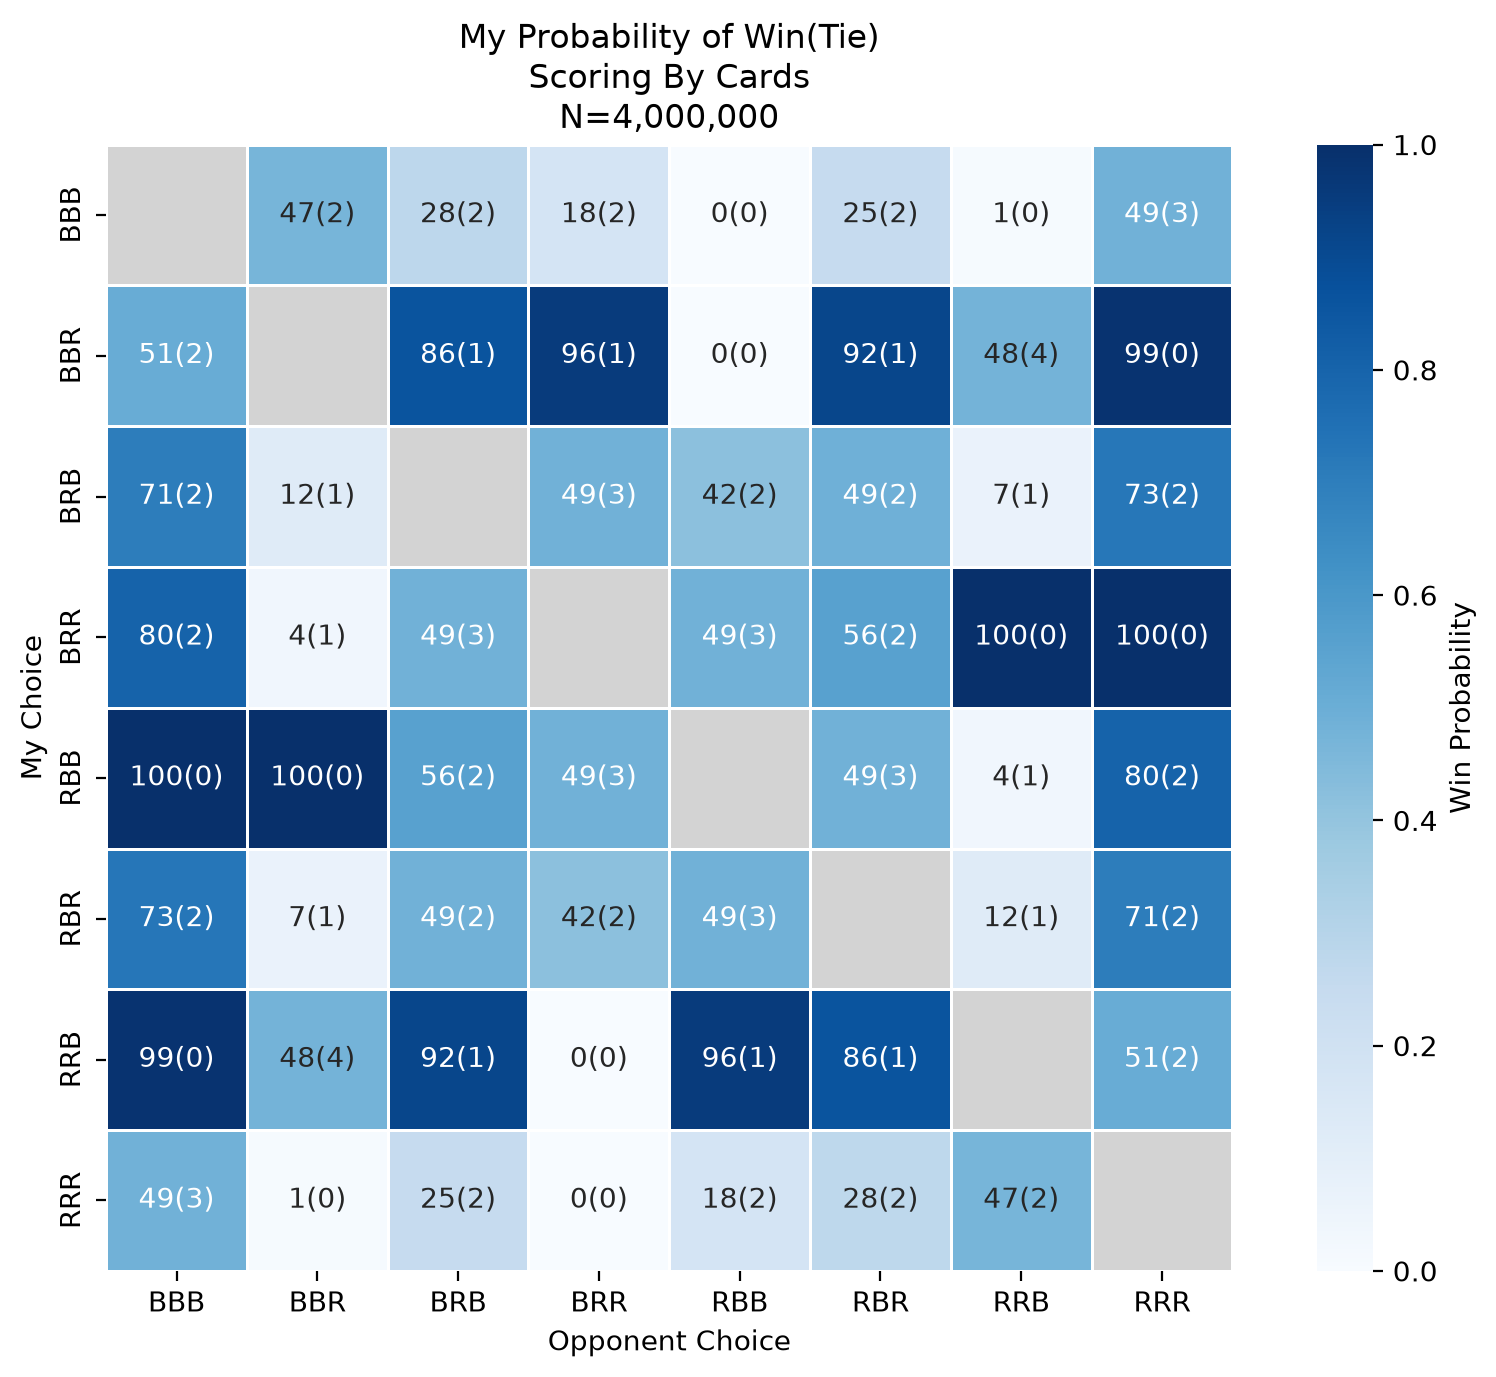
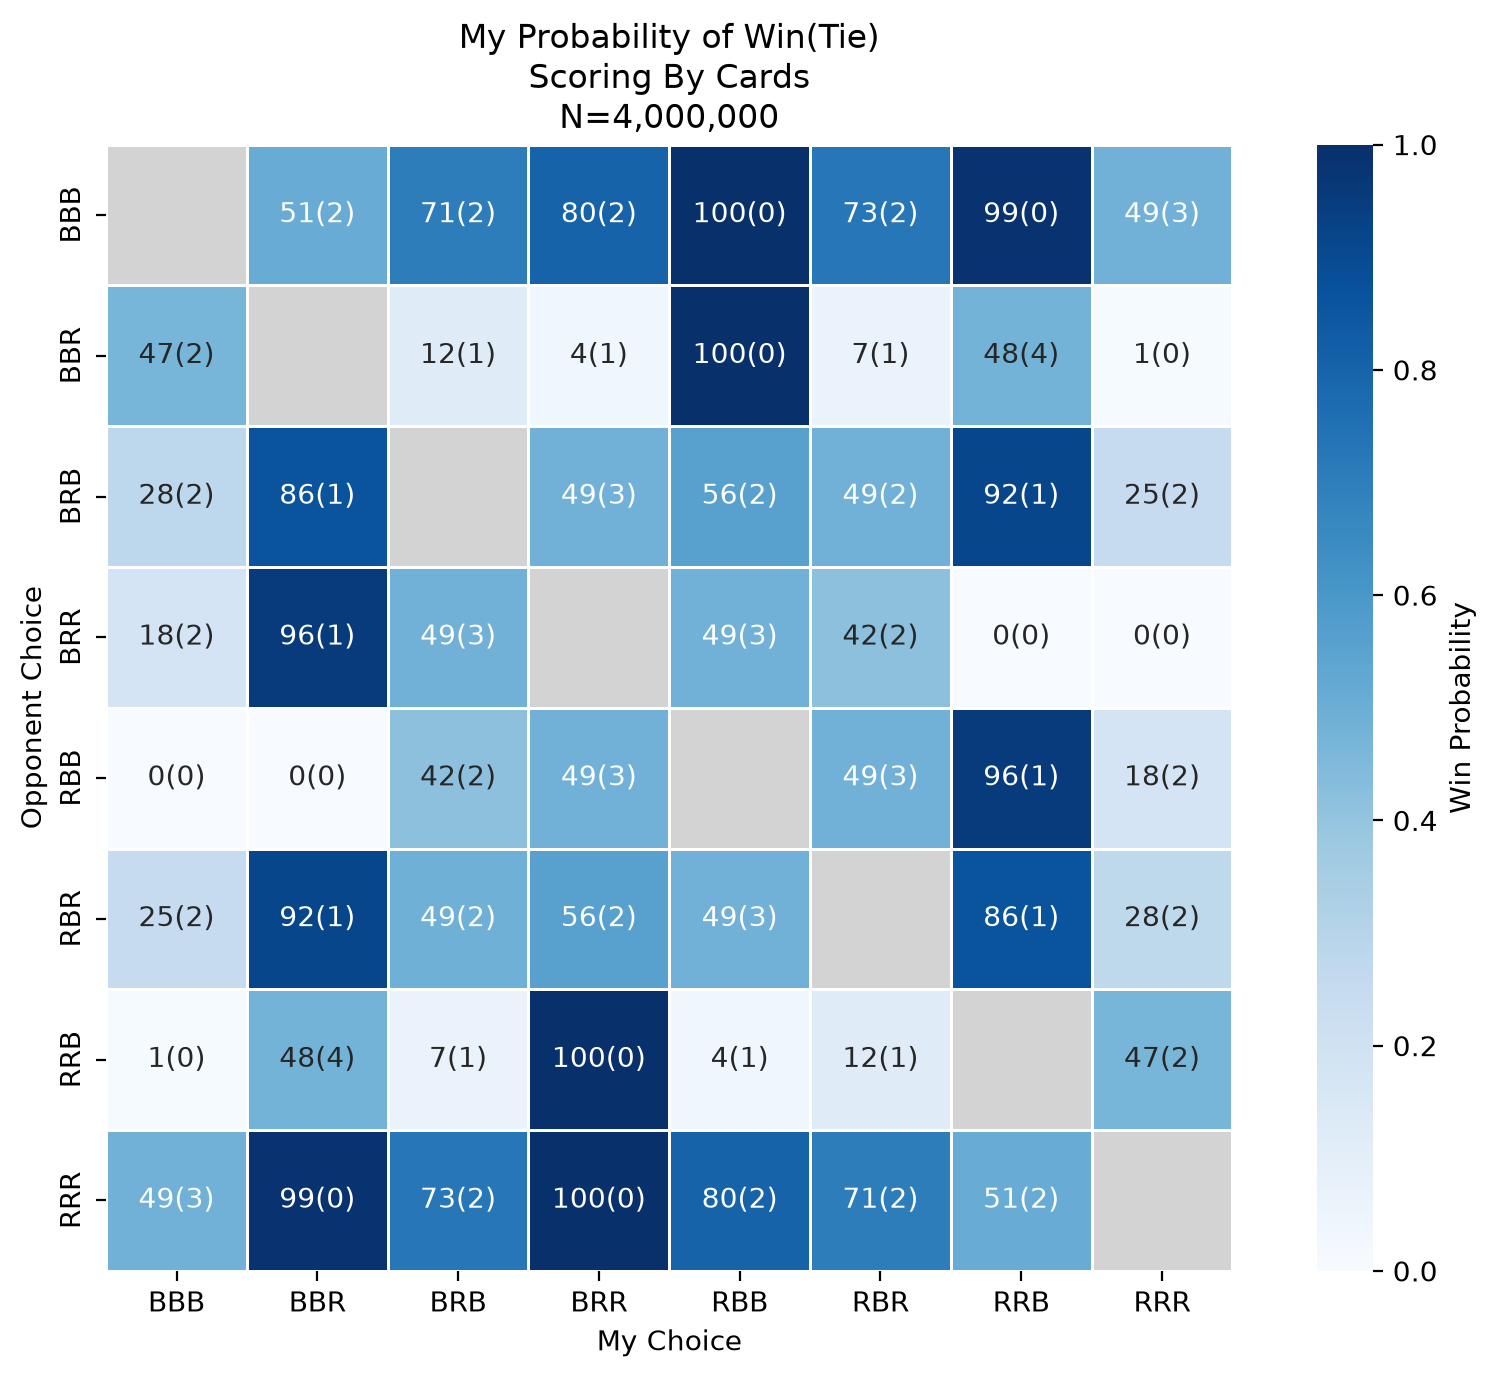
Restore partner's heatmap axis orientation
Decoding sample-heatmap.svg shows "My Choice" on the x axis (bottom) and
"Opponent Choice" rotated on the y axis, which is what datavis.py already
did before the previous commit changed it.

diff --git a/src/datavis.py b/src/datavis.py
@@ -89,8 +89,7 @@ def build_matrix(
     matrices, and a diagonal mask for one scoring version, in
     sequence_order's row/column order
  
-    Rows are my choice and columns are the opponent's choice, matching the
-    sample figure (y axis "My Choice", x axis "Opponent Choice")
+    Rows are the opponent's choice and columns are my choice
  
     Returns:
         - win_probs: (8, 8) float array. 
@@ -107,8 +106,8 @@ def build_matrix(
     tie_pcts = np.zeros((n, n), dtype=int)
     mask = np.eye(n, dtype=bool) 
  
-    for row_i, my_seq in enumerate(sequence_order):
-        for col_j, opp_seq in enumerate(sequence_order):
+    for row_i, opp_seq in enumerate(sequence_order):
+        for col_j, my_seq in enumerate(sequence_order):
             if row_i == col_j:
                 continue 
             p, win_pct, tie_pct = get_pair_probability(
@@ -172,8 +171,8 @@ def plot_heatmap(
 
     ax.set_facecolor("lightgray")
  
-    ax.set_xlabel("Opponent Choice")
-    ax.set_ylabel("My Choice")
+    ax.set_xlabel("My Choice")
+    ax.set_ylabel("Opponent Choice")
     ax.set_title(
         f"My Probability of Win(Tie)\n"
         f"Scoring By {VERSION_DISPLAY_NAMES[version]}\n"
